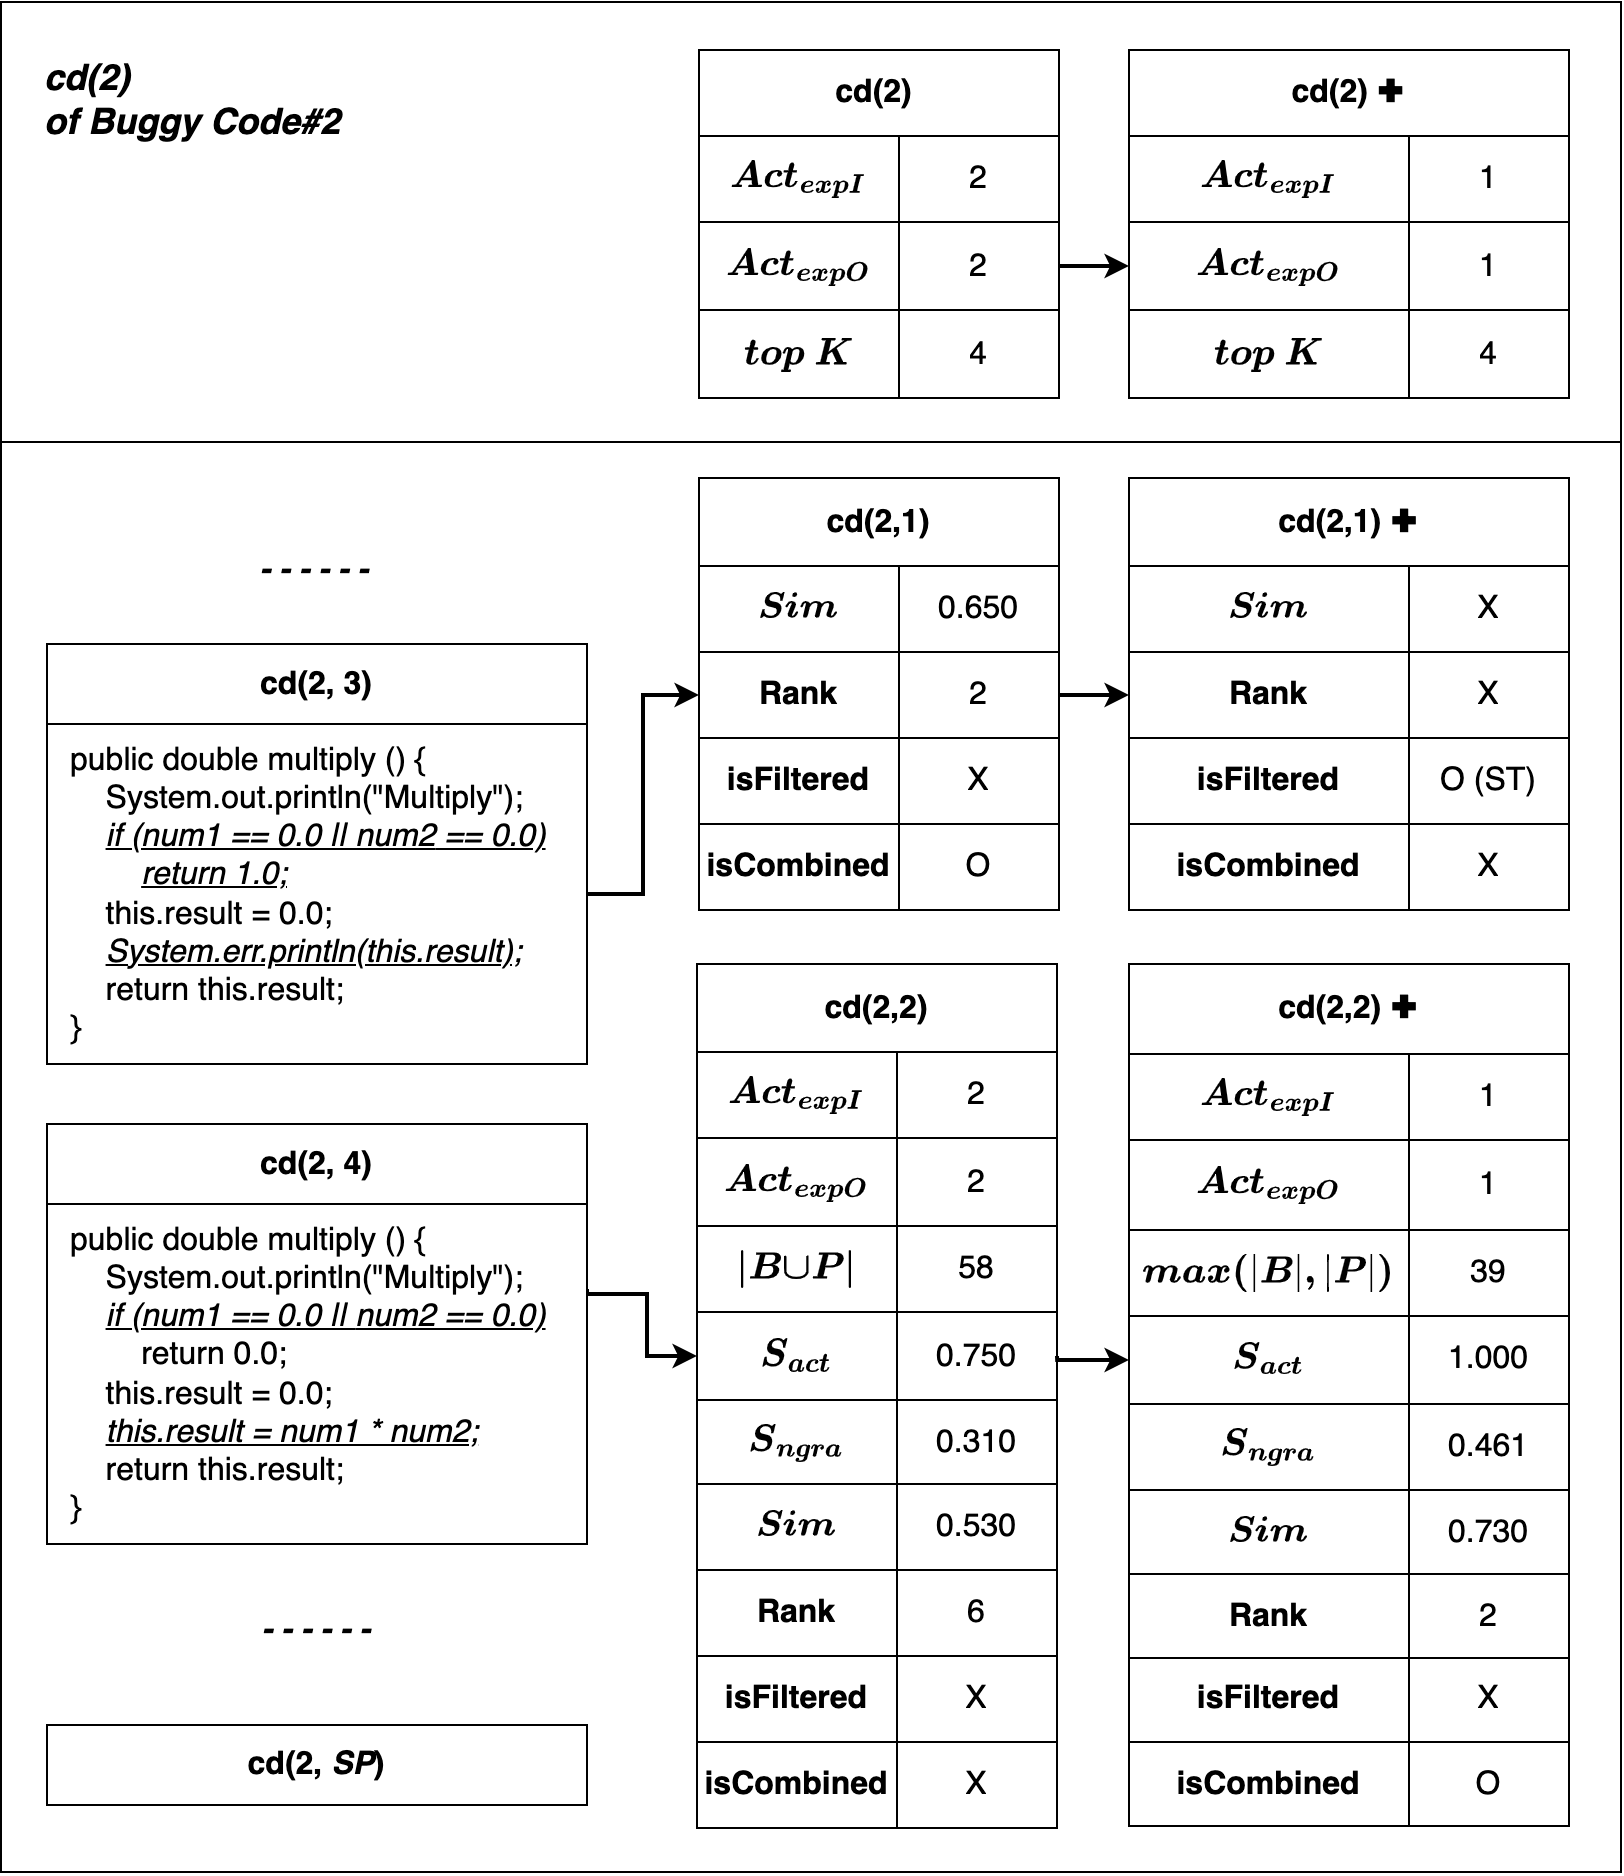
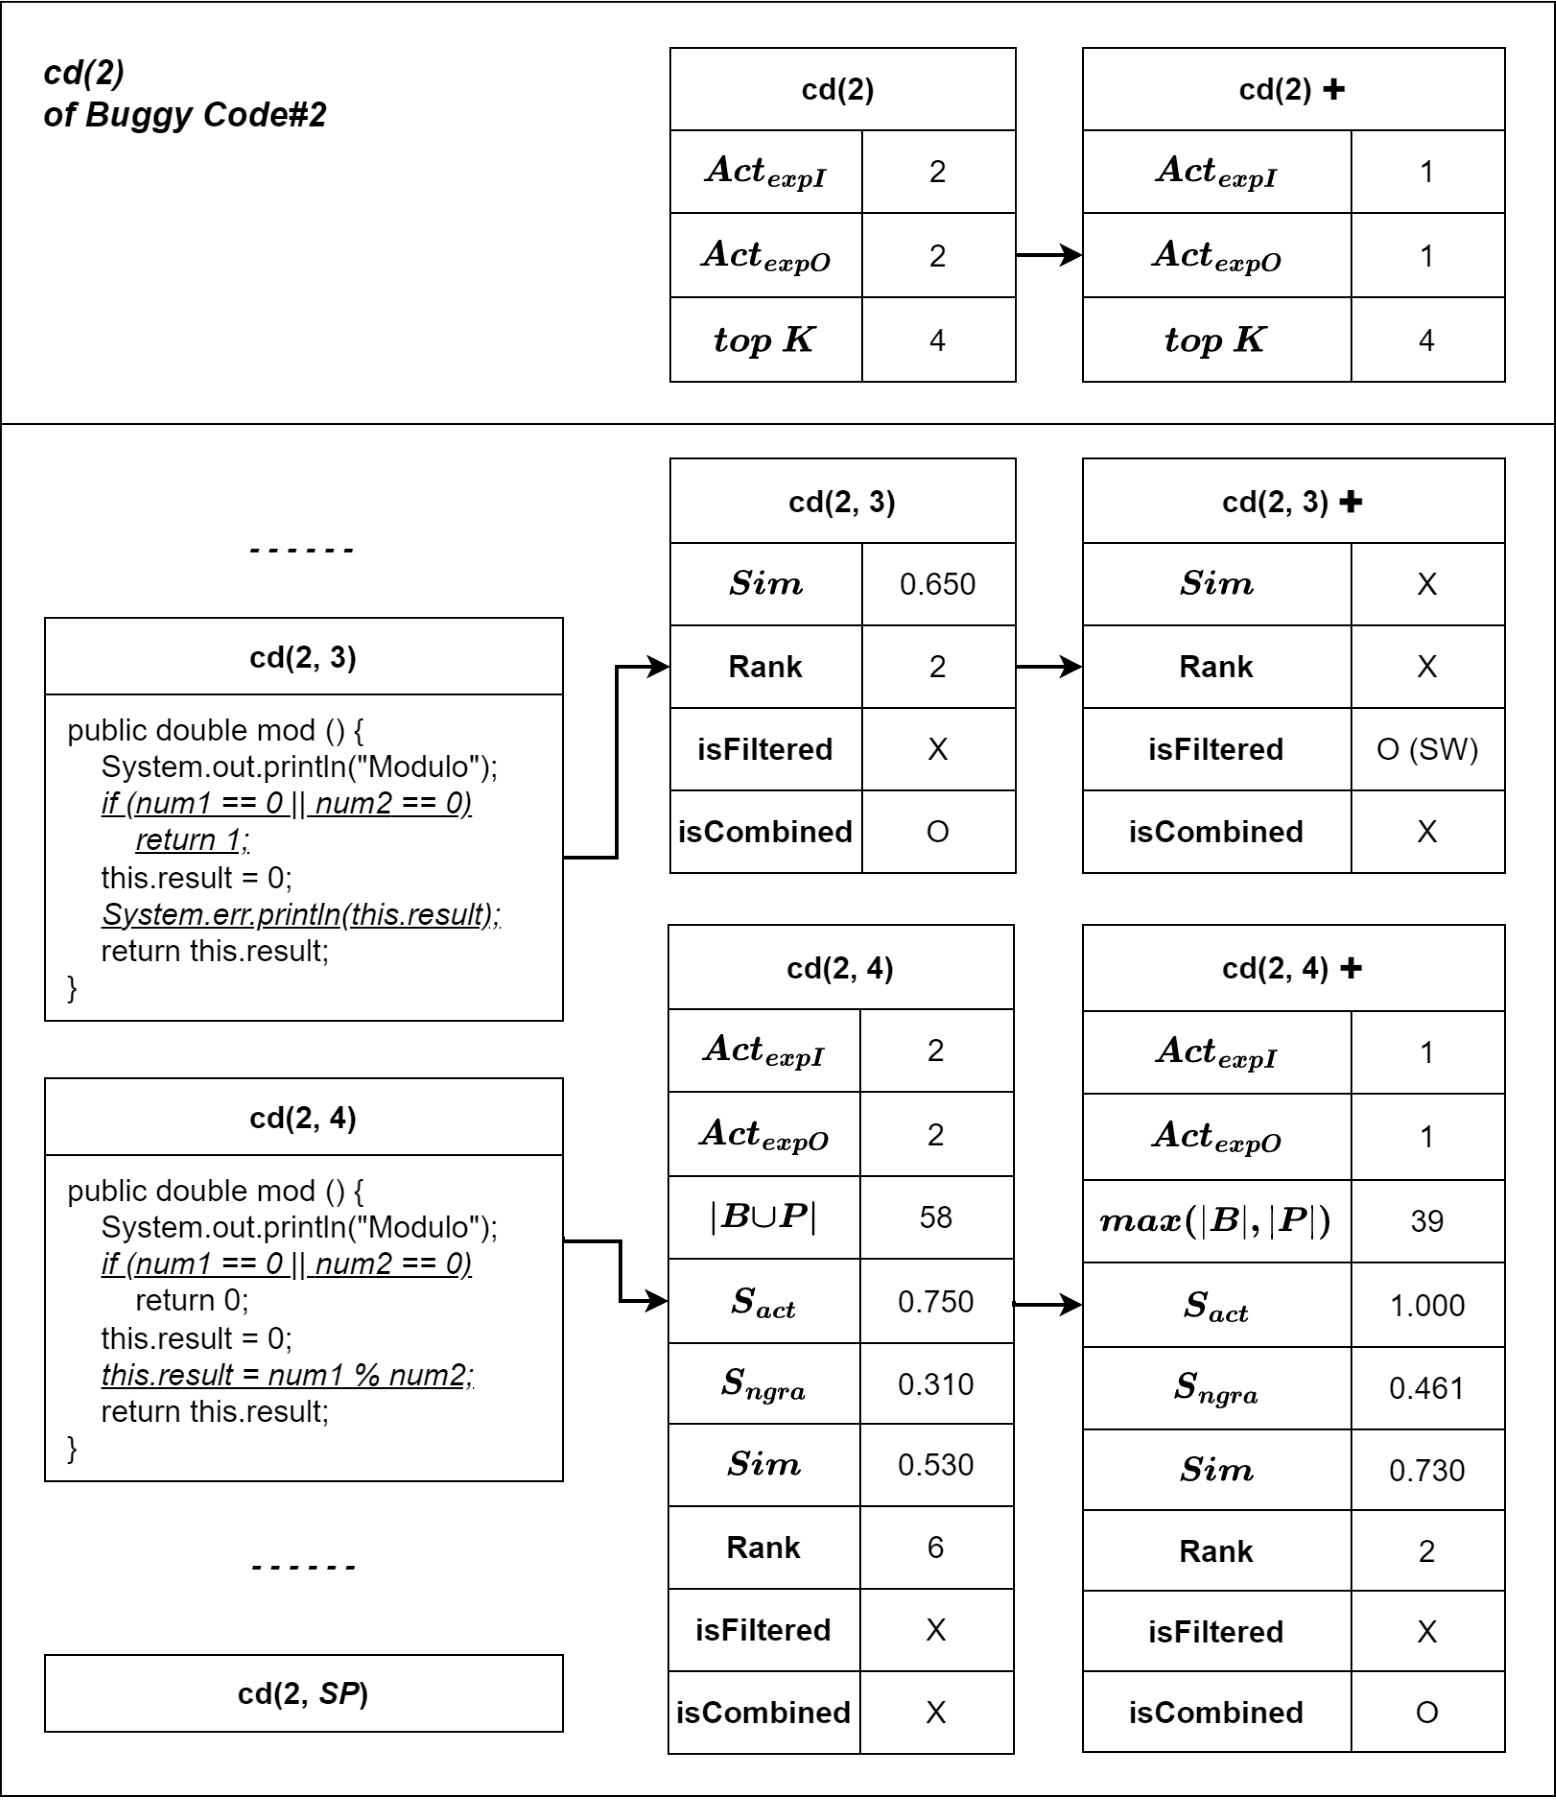
Update figures and README.md

diff --git a/README.md b/README.md
@@ -10,9 +10,9 @@
     * Revised patch filtering and ranking: Patch filtering that adds a new filtering rule for removing unrelated patches and patch ranking that decreases the number of expected actions and applies the maximum formula, to improve patch optimization
     * proportional patch combination: Patch combination that gives higher top k values for a big logical buggy chunk that has many buggy locations, to improve patch optimization
 * Figures
-  * [Figure 1:](./figures/Figure1.png) Limitation1 and Improvement1 between MCRepair and MCRepair+. (RL: Repaired location, MRL: Minimized repaired location, ✚: Plus for improvement)
-  * [Figure 2:](./figures/Figure2.png) Limitation2 and Improvement2 between MCRepair and MCRepair+. (ST: Stop-words)
-  * [Figure 3:](./figures/Figure3.png) Limitation3 and Improvement3 between MCRepair and MCRepair+. (bLocs: The number of buggy locations for each chunk)
+  * [Figure 1:](./figures/Figure1.png) Buggy Locations between MCRepair and MCRepair+. (RL: Repaired location, MRL: Minimized repaired location, ✚: Plus for improvement, FAULT_OF_OMISSION: A location related to INSERT action(s))
+  * [Figure 2:](./figures/Figure2.png) Patch Filtering and Ranking between MCRepair and MCRepair+. (SW: Stop-words)
+  * [Figure 3:](./figures/Figure3.png) Patch Combination between MCRepair and MCRepair+. (bLocs: The number of buggy locations for each chunk)
   * [Figure 4:](./figures/Figure4.png) An overview of MCRepair+. (▲: Only use for training or validation, ◆: Only use for generation)
     <img src="./figures/Figure4.png" width="100%">
   * [Figure 5:](./figures/Figure5.png) An example of the source code datasets. (–: Buggy location, +: Fixed location)
@@ -20,7 +20,7 @@
   * [Figure 7:](./figures/Figure7.png) The details of Buggy Block Preprocessing. (ST: Special Tokens, TR: Truncation)
   * [Figure 8:](./figures/Figure8.png) The details of Fine-tuning and Patch Generation. 
   * [Figure 9:](./figures/Figure9.png) An example of the candidate patches generated by the fine-tuned CodeBERT.
-  * [Figure 10:](./figures/Figure10.png) The details of Patch Optimization. (DP: Duplicated, SE: Syntax Errors, TM: Terminated, ST: Stop-words)
+  * [Figure 10:](./figures/Figure10.png) The details of Patch Optimization. (DP: Duplicated, SE: Syntax Errors, TM: Terminated, SW: Stop-words)
   * [Figure 11:](./figures/Figure11.png) An example of the calculations in Proportional Patch Combination.
   * [Figure 12:](./figures/Figure12.png) The details of Patch Evaluation. (FA: Failed, CO: Compilable, PL: Plausible, CR: Correct)
   * Figure 13: RQ1. Statistics of evaluated results on Defects4J.
